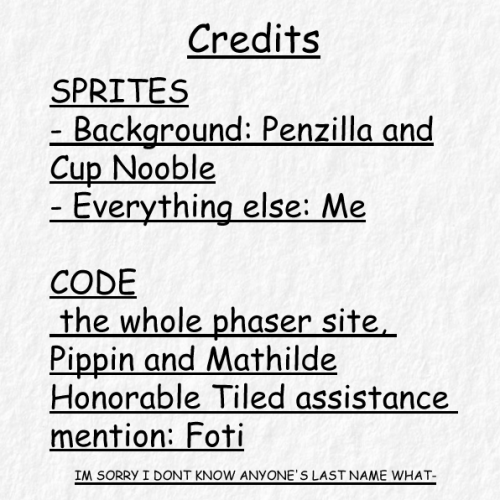
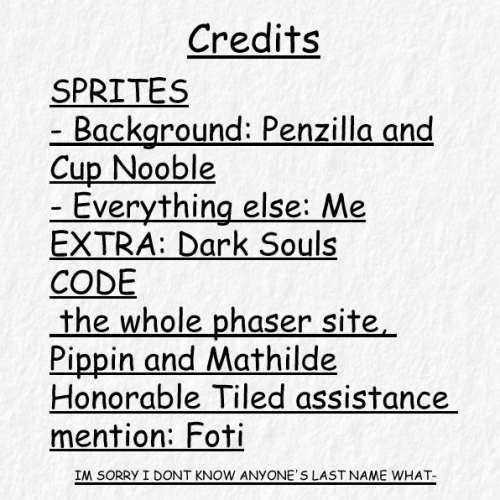
FINAL: fixed the credits page

Changed region(s): [[0.09, 0.45, 0.69, 0.54]]

diff --git a/final/final/js/main.js b/final/final/js/main.js
@@ -2,7 +2,7 @@
 Nah, Cuz Will I Ever Get Out Of Here?!?!?
 Scarlett Perez
 
-CREDITS ARE IN GAME!!! JUST LIKE M.A.N.T.I.S. ANATOMY!!!! Just in case I'll rewrite them here but the sprites themselves the background assets are from Penzilla and Cup Nooble while everything else was made by ME remind me to never make sprites again.
+CREDITS ARE IN GAME!!! JUST LIKE M.A.N.T.I.S. ANATOMY!!!! Just in case I'll rewrite them here but the sprites themselves the background assets are from Penzilla and Cup Nooble while everything else was made by ME remind me to never make sprites again. Extra image from Dark Souls too—aka the death screen because it's iconic
 As for the code, the whole phaser site, Pippin and Mathilde. With my honorable mention going to Foti as he helped me with the actual Tiled part of my game since nothing was working (collisions...)
 
 A silly game where you help some random person with stuff because you have no life and also no way out and stuff.

diff --git a/final/final/js/Boot.js b/final/final/js/Boot.js
@@ -107,7 +107,6 @@ class Boot extends Phaser.Scene {
         this.load.image("furnitureImage", "assets/images/tilesImages/TopDownHouse_FurnitureState3.png")
         this.load.tilemapTiledJSON("innerHouse", "assets/images/insideHouse.json")
 
-
         this.load.on("complete", () => {
             this.scene.launch("menu");
         })
